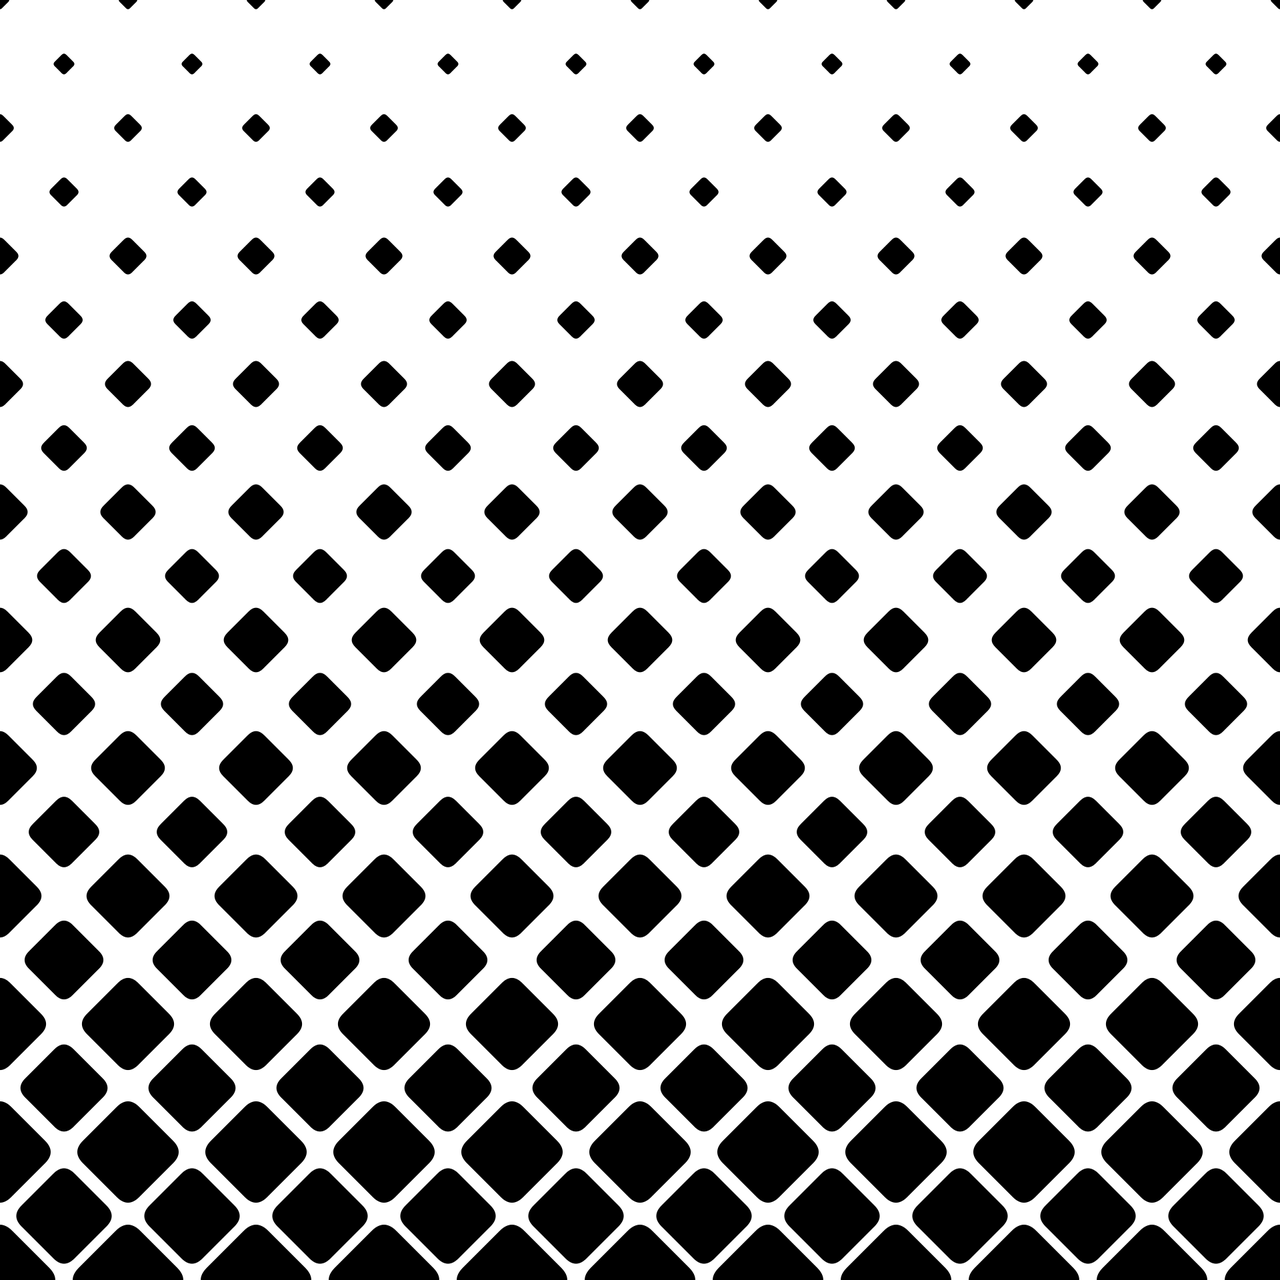
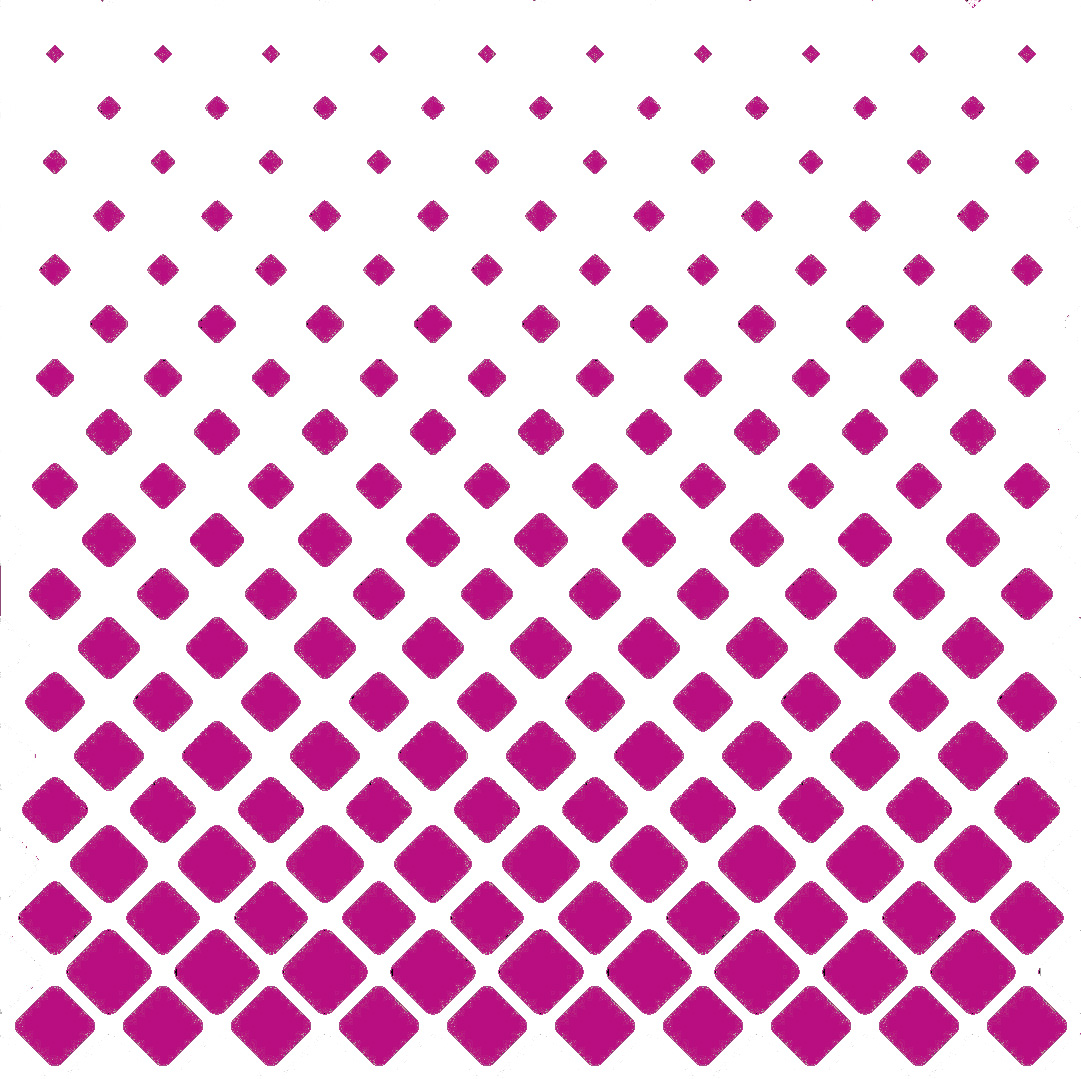
accolades filler sak

diff --git a/index.html b/index.html
@@ -117,7 +117,7 @@
         </div>
         <div class="fill">
             <div class="background leftB">
-                <img src="#" alt="filler">
+                <img src="image/fill_left.png" alt="filler">
             </div>
             <div class="list">
                 <ul>
@@ -138,7 +138,7 @@
                 </ul>
             </div>
             <div class="background rightB">
-                <img src="#" alt="filler">
+                <img src="image/fill_right.png" alt="filler">
             </div>
         </div>
     </div>

diff --git a/mall.css b/mall.css
@@ -311,6 +311,7 @@ nav {
     text-align: center;
 }
 .fill{
+    margin: 30px auto;
     display: flex;
     justify-content: space-around;
     align-items: center;
@@ -321,7 +322,6 @@ nav {
     justify-content: center;
 }
 .list ul{
-    margin-top: 30px;
     padding: 15px 25px;
     list-style: none;
     background: rgba(184,14,128,0.7);
